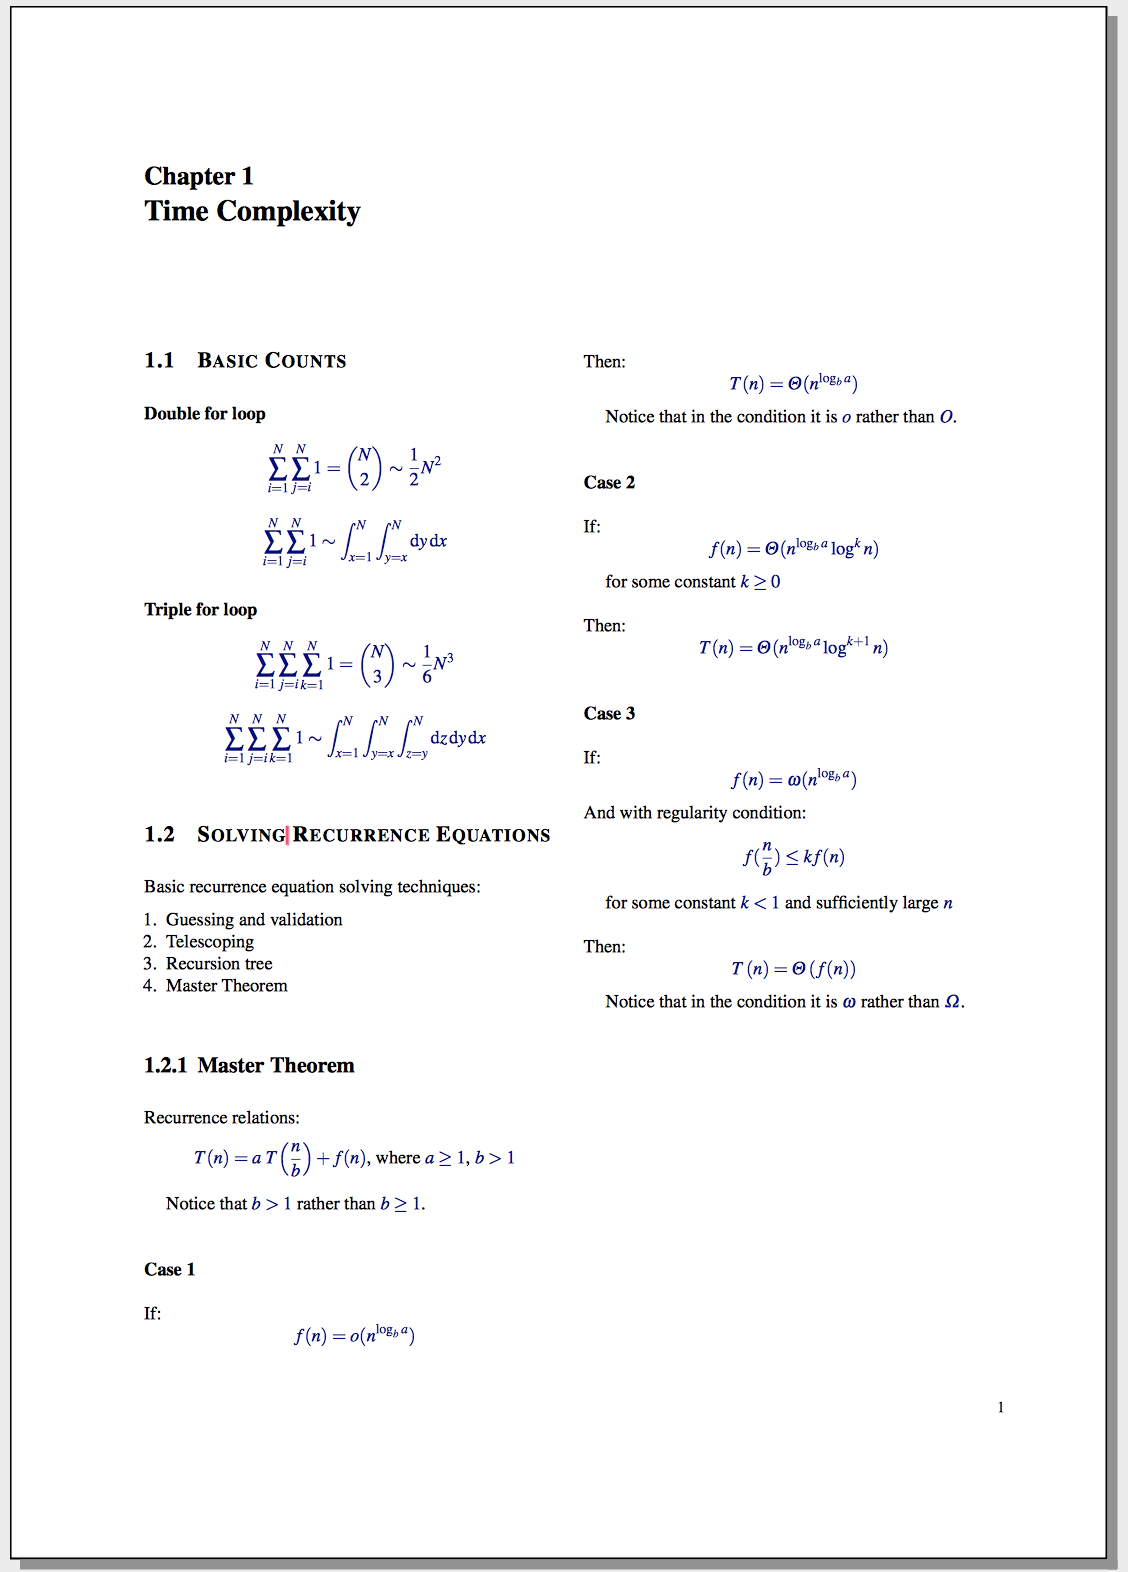
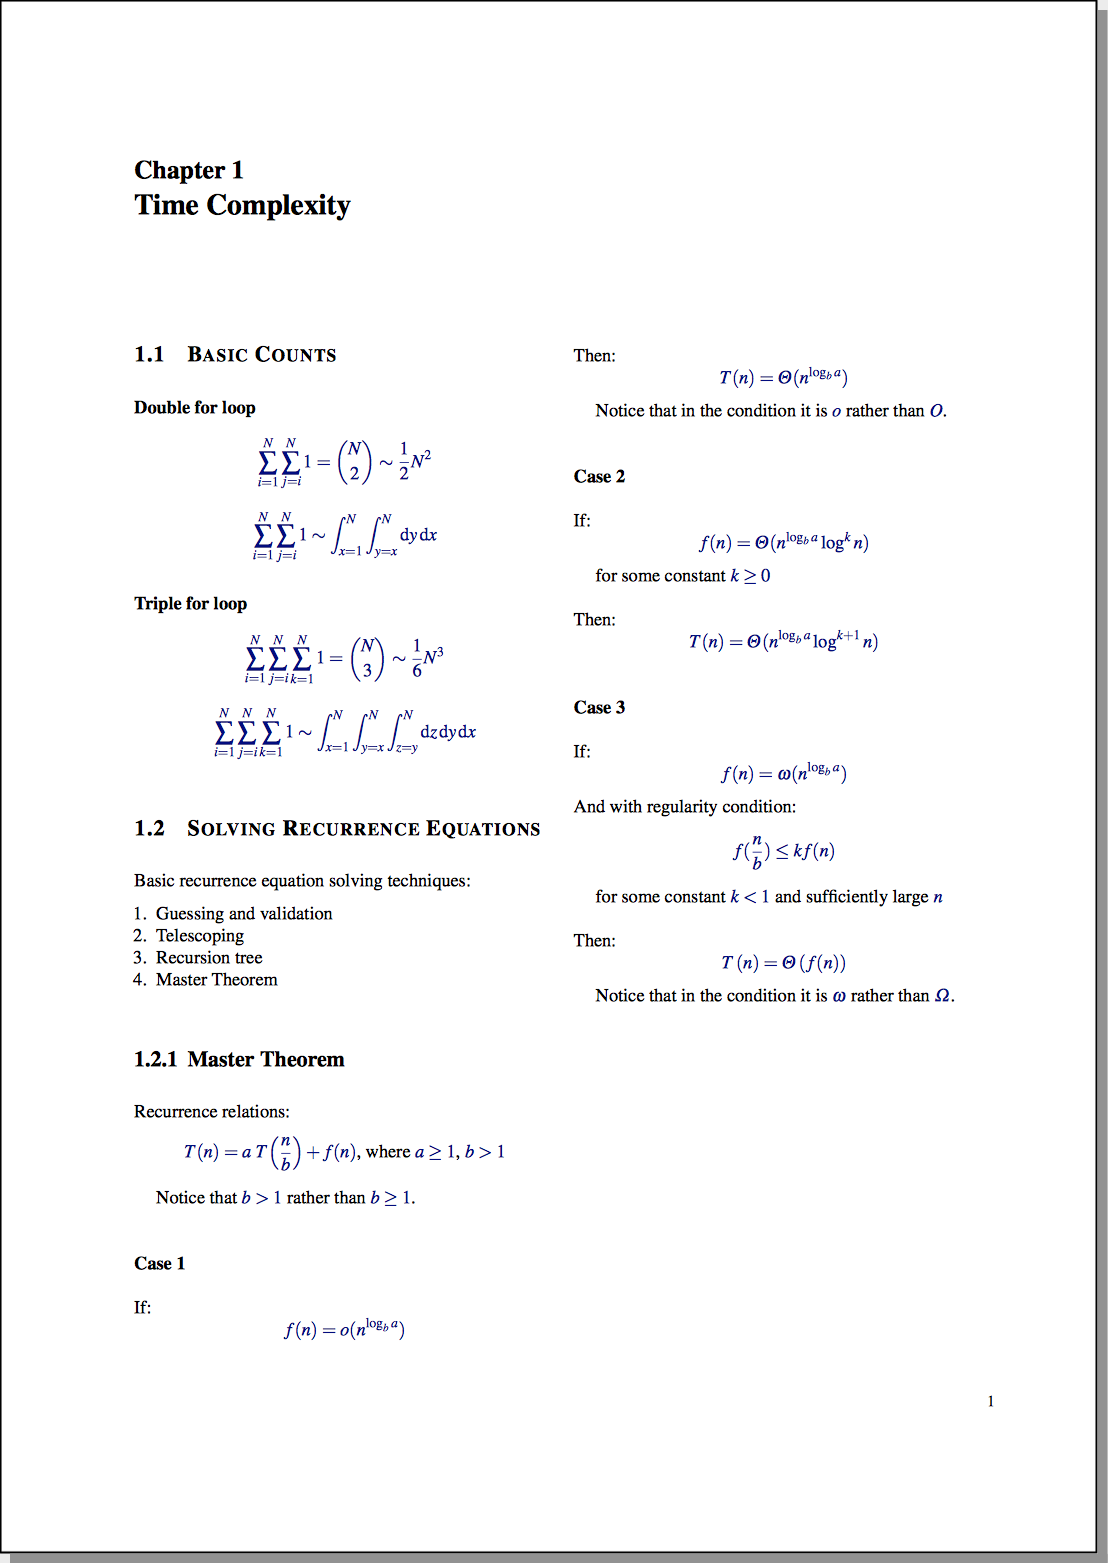
math

diff --git a/chapterArray.tex b/chapterArray.tex
@@ -7,7 +7,7 @@ Normally, we should solve the linear problem and circular problem differently.
 \subsection{Circular max sum}
 Linear problem can be solved linear with simple algorithm, but the circular sum should use dp. 
 \begin{enumerate}
-\item Construct left max sum for max sum over the $[0..i]$ (\textbf{forward} starting from the left side); construct right max sum for max sum over the indexes $[i..n-1]$ (\textbf{backward} starting from the right side). Notice that the max sum index ends AT or BEFORE i. 
+\item Construct left max sum for max sum over the $[0..i]$ (\textbf{forward} starting from the left side). \\ Construct right max sum for max sum over the indexes $[i..n-1]$ (\textbf{backward} starting from the right side). Notice that the max sum index ends AT or BEFORE i. 
 \item The $maxSum = maxSum[i..n-1]+maxSum[0..i]$
 \end{enumerate}
 

diff --git a/chapterMath.tex b/chapterMath.tex
@@ -61,6 +61,40 @@ def countPrimes(n):
 
     return is_prime.count(True)
 \end{python}
-\subsection{TODO}
+
+\subsection{Factorization}
+Backtracking: 
+\begin{python}
+def dfs(self, cur, ret):
+    """
+    16
+
+    get factors of cur[-1]
+    [16]
+    [2, 8]
+    [2, 2, 4]
+    [2, 2, 2, 2]
+
+    [4, 4]
+    """
+    if len(cur) > 1:
+        ret.append(list(cur))
+
+    n = cur.pop()
+    start = cur[-1] if cur else 2
+    for i in xrange(start, int(sqrt(n))+1):
+        if n%i == 0:
+            cur.append(i)
+            cur.append(n/i)
+            self.dfs(cur, ret)
+            cur.pop()
+\end{python}
+\subsubsection{Time Complexity}
+$O(2^n)$ where $n$ is the number of prime factors. Choose $i$ prime factors to combine then, and keep the rest uncombined： 
+
+$$\sum_i {n \choose i}$$
+
+TODO
+
 
 

diff --git a/chapterTimeComplexity.tex b/chapterTimeComplexity.tex
@@ -17,7 +17,7 @@ $$
 \mathrm{d}y\, \mathrm{d}x
 $$
 
-\section{Solve Recurrence Equations}
+\section{Solving Recurrence Equations}
 Basic recurrence equation solving techniques:
 \begin{enumerate}
 \item Guessing and validation
